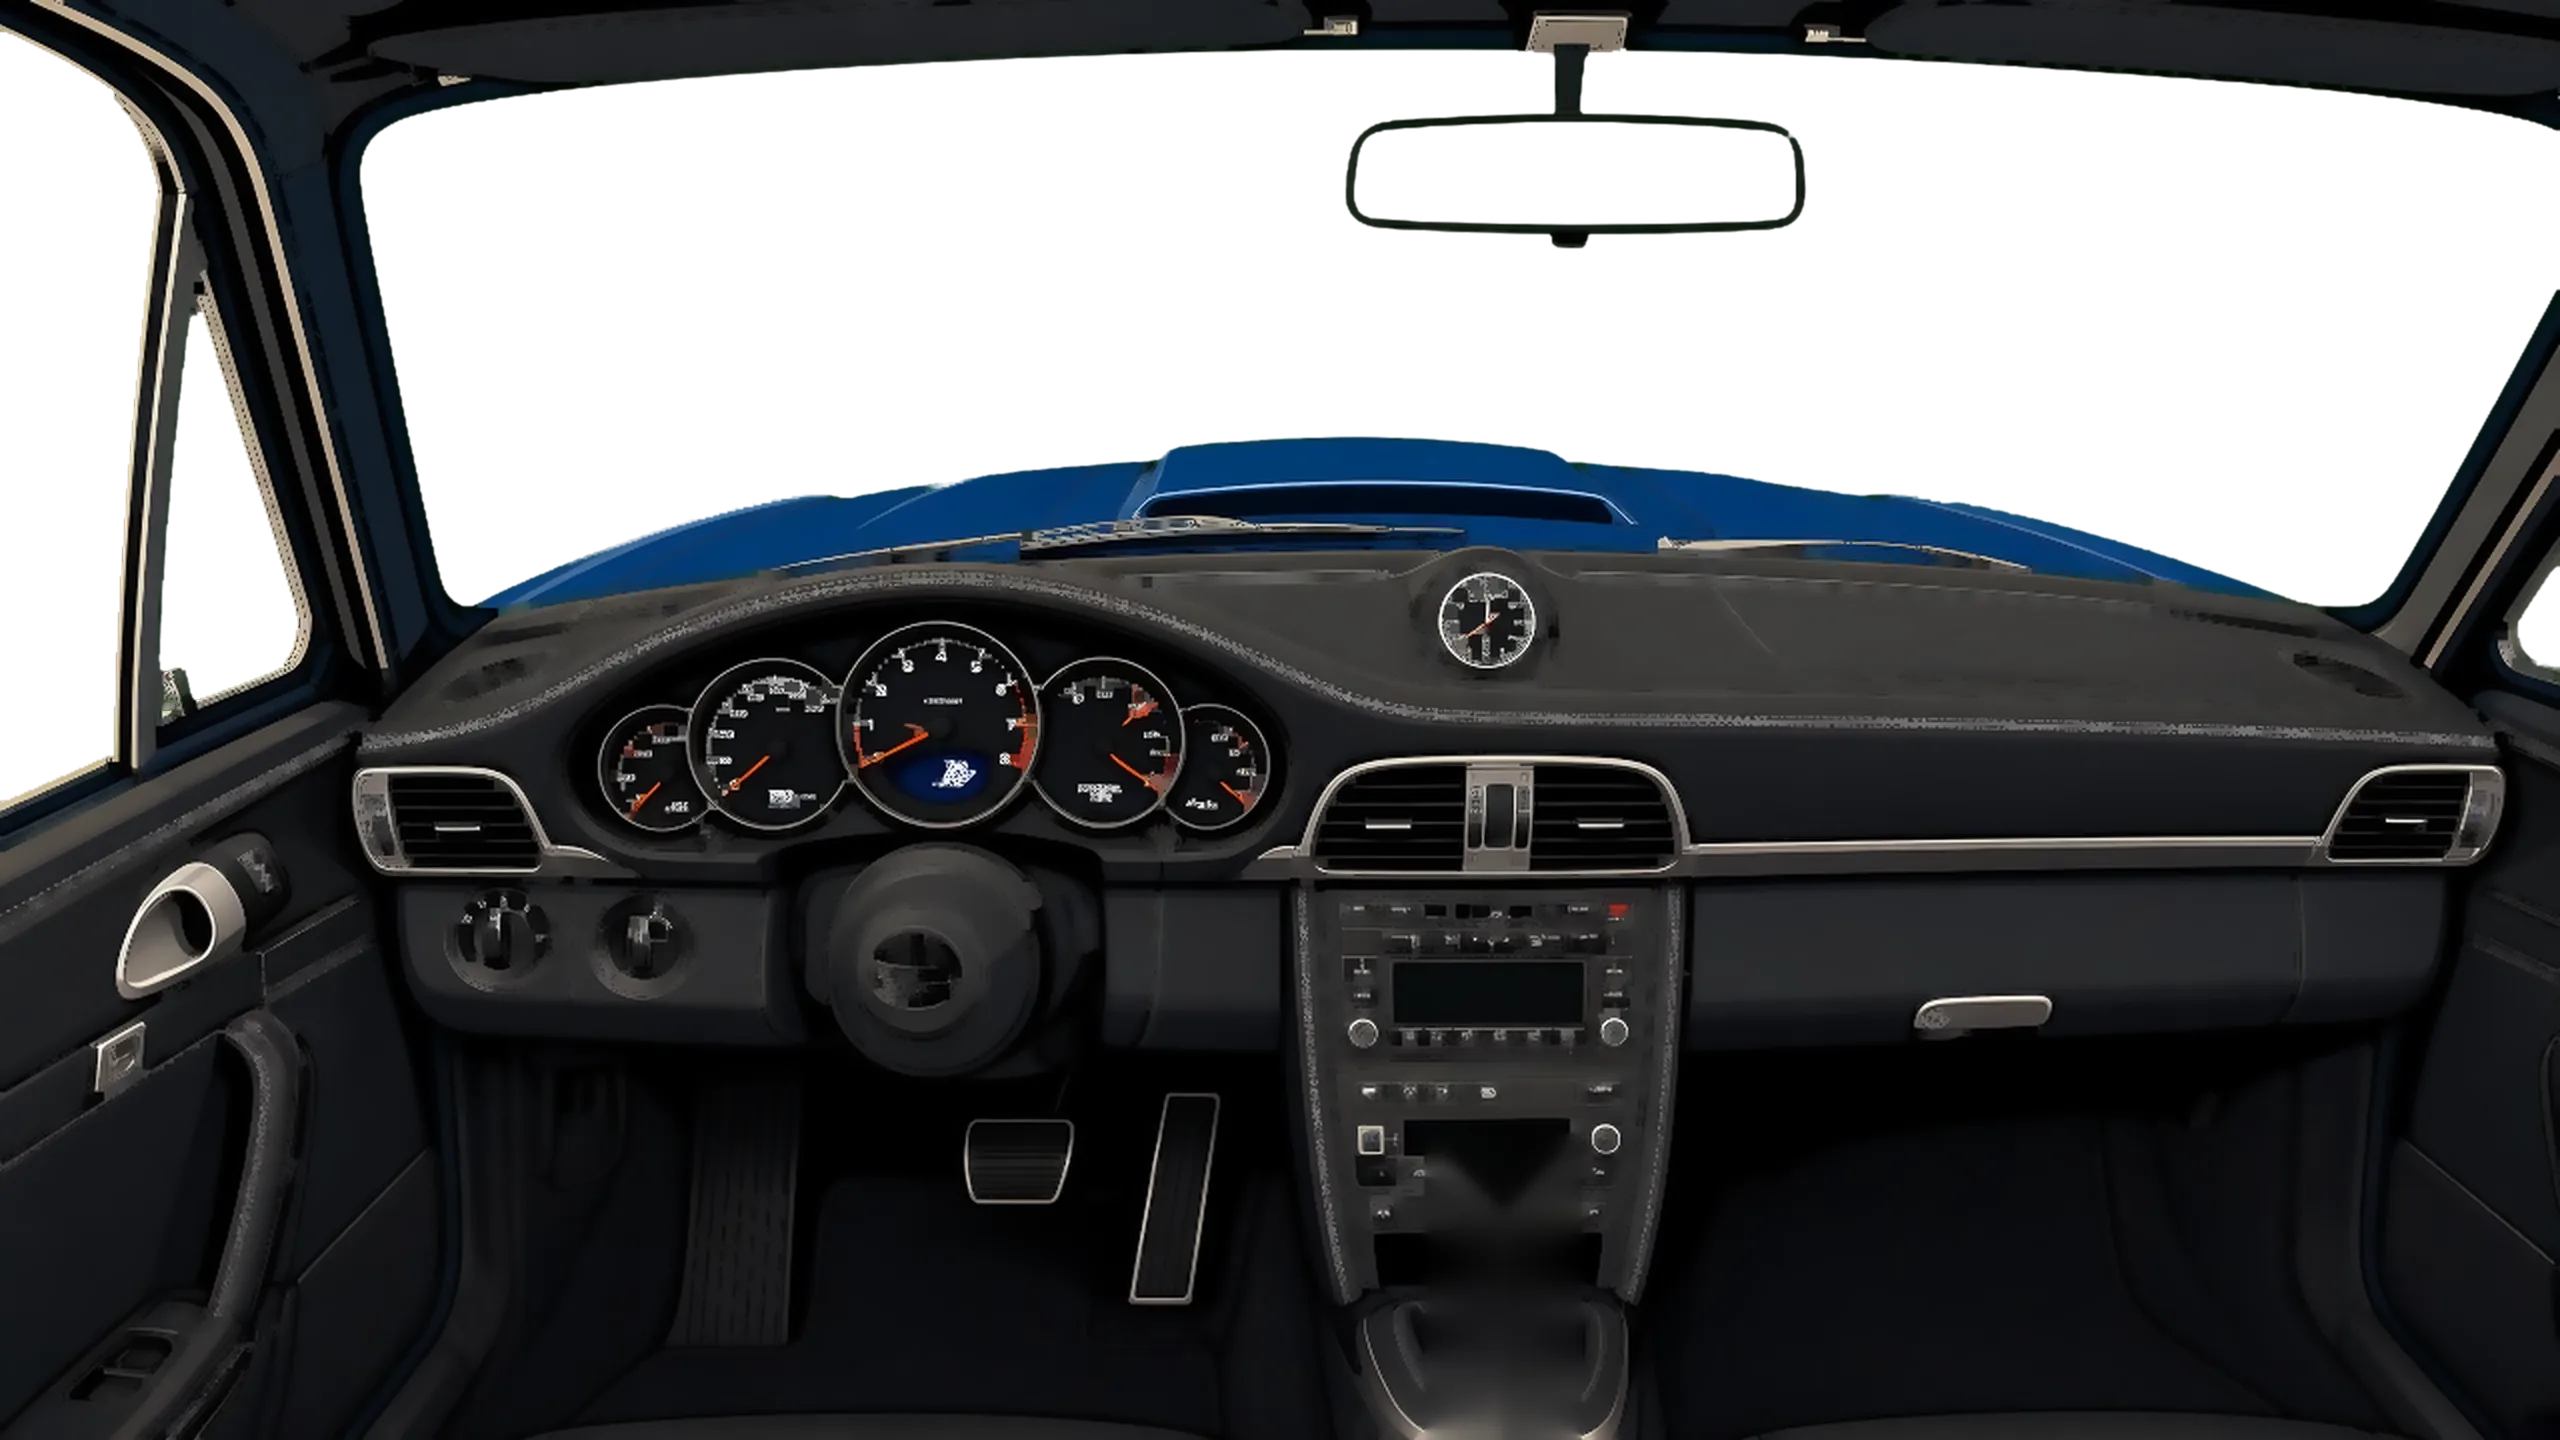
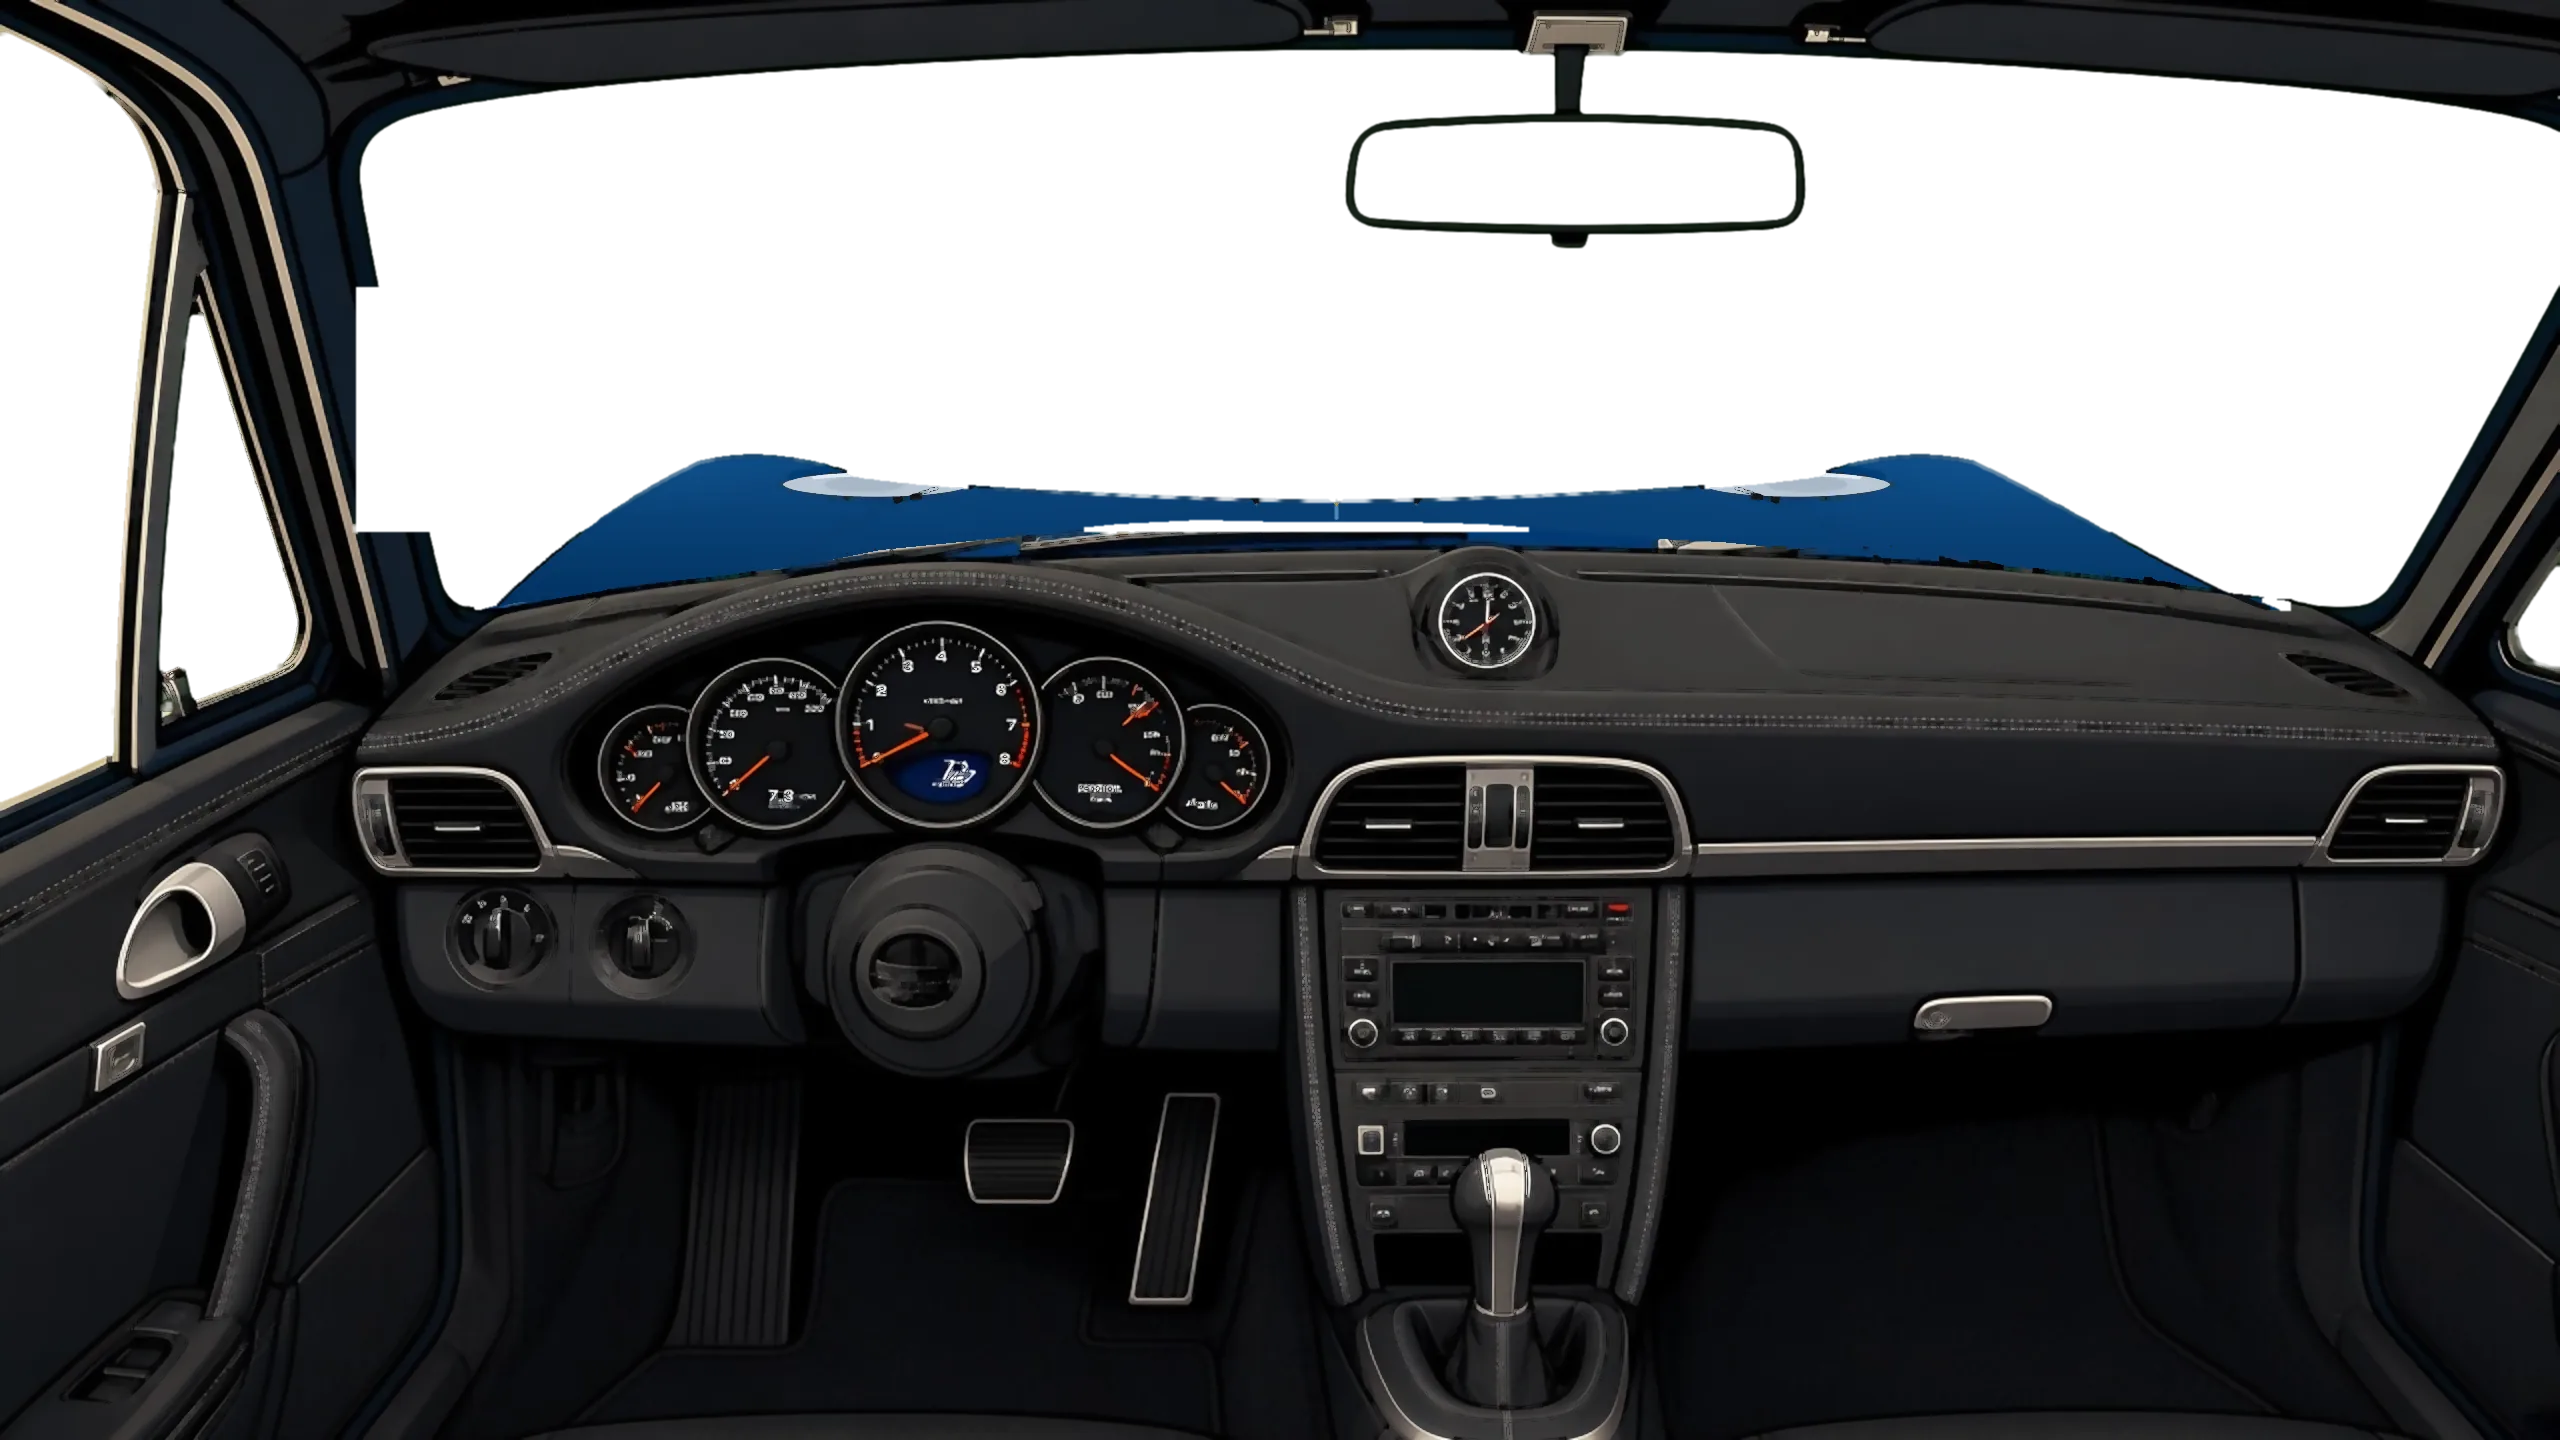
Street Rod v1.11.5: 911 bonnet now follows the real 997.1 shape from the driver's seat
The lid is low and almost flat, with fender shoulders, oval headlight cut-outs and a sharp front edge, instead of the old centre bulge.

diff --git a/index.html b/index.html
@@ -10,7 +10,7 @@
 <link rel="icon" href="data:,">
 <link rel="manifest" href="assets/manifest.webmanifest">
 <link rel="apple-touch-icon" href="assets/icon-180.png">
-<title>Street Rod: engine sound + driving demo (v1.11.4)</title>
+<title>Street Rod: engine sound + driving demo (v1.11.5)</title>
 <style>
 * { box-sizing: border-box; -webkit-tap-highlight-color: transparent; }
 html, body { margin: 0; background: #1a120c; color: #eadfc6; font: 15px/1.45 Georgia, 'Times New Roman', serif; }
@@ -9327,6 +9327,7 @@ var ProjectHistory = {
       { v: 'v1.11.2', date: '2026-11-13', status: 'done', text: 'Inside-the-car sound of the newer computed engine models (GT350 and Cadillac "v9p" option, and the Porsche): it was far too muffled, as if the body cut away everything above a low hum. It now lets the engine through the way real cabin recordings do: the floor and bulkhead block more as the pitch rises, sound also leaks through seals and vents, intake noise comes in through the air vents, and the trim softens the top end. Fitted to filtered in-car recordings of each car. The GT350 and Cadillac still start on their usual sound (v2); the Porsche outside sound is unchanged. Porsche top speed is now about 280 km/h in sixth like the factory figure (was 295 on the limiter), from tyre rolling resistance that grows with speed and the four-wheel-drive losses; 0-100 km/h is still about 4.9 s.' },
       { v: 'v1.11.4', date: '2026-11-13', status: 'done', text: 'The Cadillac now starts on the latest physics sound, which is the better fit on the scorecard after a fix to the stock muffler. The earlier version of that model had left the reverse-flow muffler almost undamped, so the sound was a low boom with a hole in the midrange; it now has packing in the chambers and a resonator for the firing-order drone (around 825 rpm). It beats the previous default (v2) on the overall score (3.60 against 4.07) and in the cabin and far outside; it is just behind at the tailpipe and still behind in the engine bay. A saved sound choice or a link with ?sound= still works as before. The GT350 stays on the latest model, the BRM stays on v8. The Porsche outside sound is unchanged.' },
       { v: 'v1.11.3', date: '2026-11-13', status: 'done', text: 'GT350 default sound is now the latest physics model, best fit on scorecard. The Cadillac still starts on v2, and the BRM still starts on v8. A saved sound choice or a link with ?sound= still works as before.' },
+      { v: 'v1.11.5', date: '2026-11-13', status: 'done', text: 'The 911 bonnet, as you see it from the driver\'s seat, now follows a real 2006 Carrera 4S (997.1): a low, almost-flat lid with a shallow centre crease, the front fenders a little higher than the lid, oval headlight cut-outs at the front corners, and a sharp front edge where the lid meets the bumper. The old drawing had a high centre bulge, like a scoop, and did not show the lamps or how the lid meets the fenders.' },
     ] }
   ]
 };
